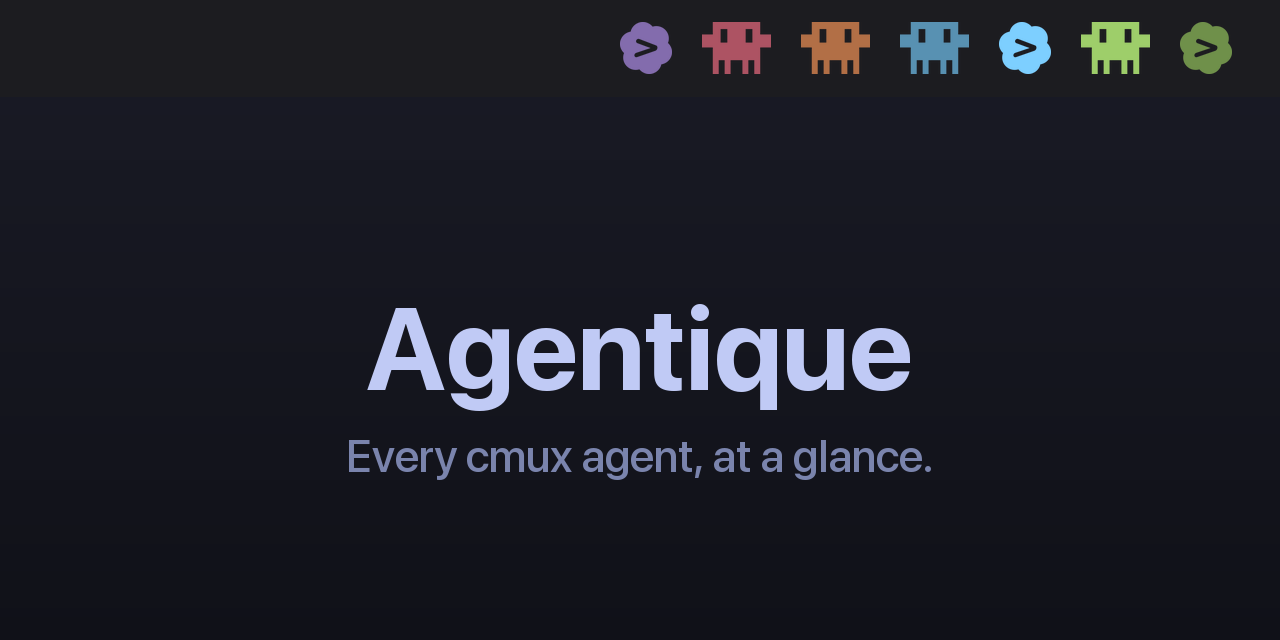
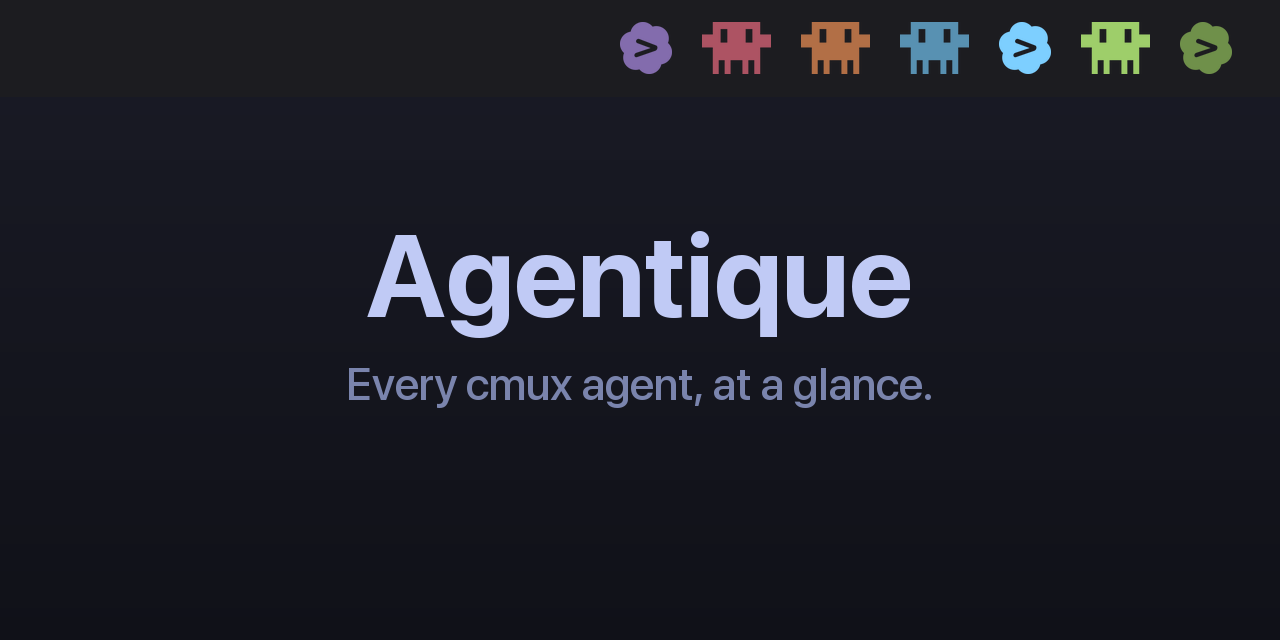
Centre the social card text on its measured ink

Changed region(s): [[0.25, 0.3438, 0.7188, 0.6562], [0.25, 0.6875, 0.7188, 0.75]]

diff --git a/Tools/make-demo.py b/Tools/make-demo.py
@@ -469,13 +469,21 @@ def make_social():
         card.alpha_composite(image, (x, (bar_h - size) // 2))
         x += image.width + gap
 
-    # Sits a little below the midpoint of the space under the bar: the glyph row carries
-    # visual weight up top, and centring on geometry alone reads as top-heavy.
-    body = bar_h + (height - bar_h) // 2 + 24
-    draw.text((width // 2, body - 46), "Agentique",
-              font=font(116, weight="Bold"), fill=TEXT, anchor="mm")
-    draw.text((width // 2, body + 62), "Every cmux agent, at a glance.",
-              font=font(46, weight="Medium"), fill=(122, 132, 173, 255), anchor="mm")
+    # Centred on the block's measured ink, not on nominal point sizes: a font's ascent and
+    # descent leave uneven slack, so stacking two sizes by eye drifts off centre.
+    title, tagline = "Agentique", "Every cmux agent, at a glance."
+    title_font, tagline_font = font(116, weight="Bold"), font(46, weight="Medium")
+    lead = 30
+
+    t = draw.textbbox((0, 0), title, font=title_font, anchor="mm")
+    s = draw.textbbox((0, 0), tagline, font=tagline_font, anchor="mm")
+    block = (t[3] - t[1]) + lead + (s[3] - s[1])
+    title_y = (height - block) // 2 - t[1]
+    tagline_y = title_y + t[3] + lead - s[1]
+
+    draw.text((width // 2, title_y), title, font=title_font, fill=TEXT, anchor="mm")
+    draw.text((width // 2, tagline_y), tagline, font=tagline_font,
+              fill=(122, 132, 173, 255), anchor="mm")
 
     path = f"{OUT}/social-preview.png"
     card.convert("RGB").save(path)